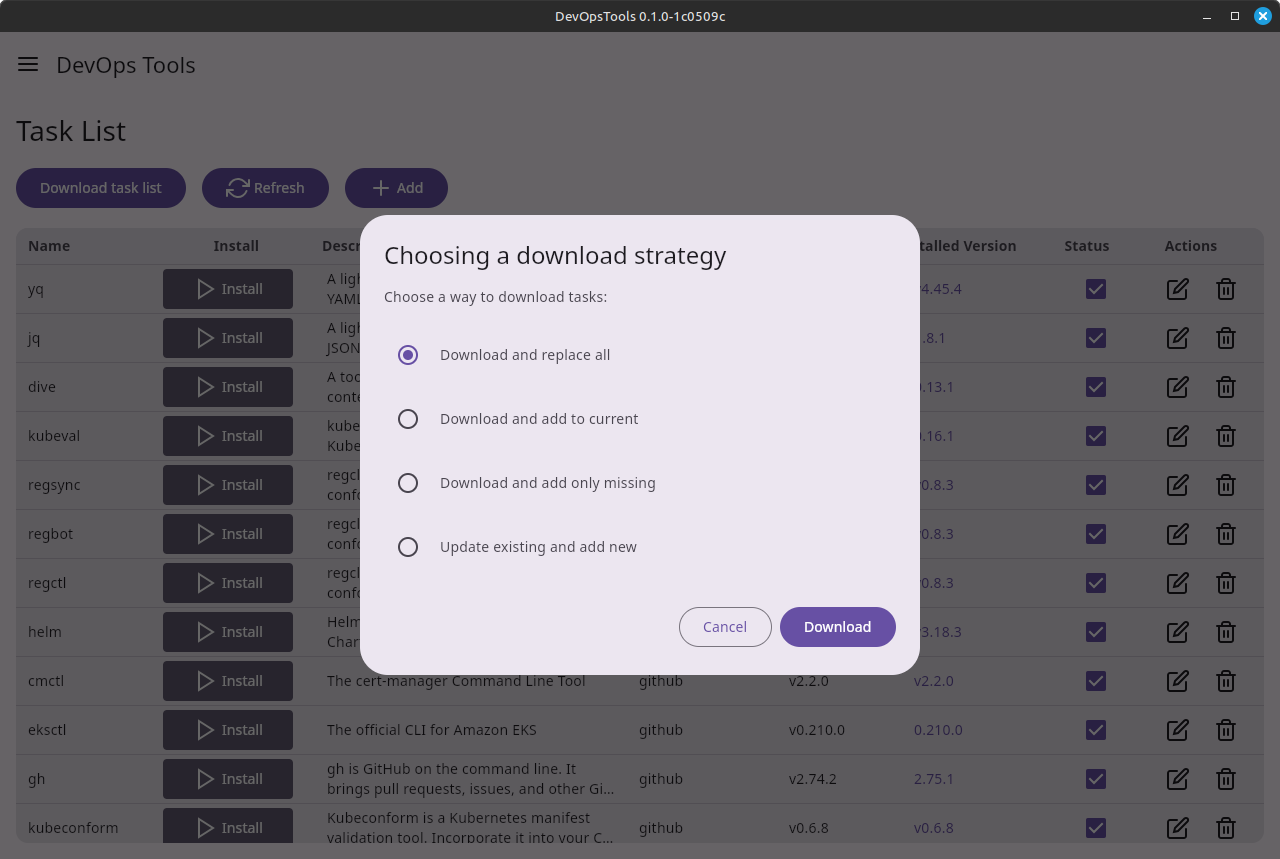
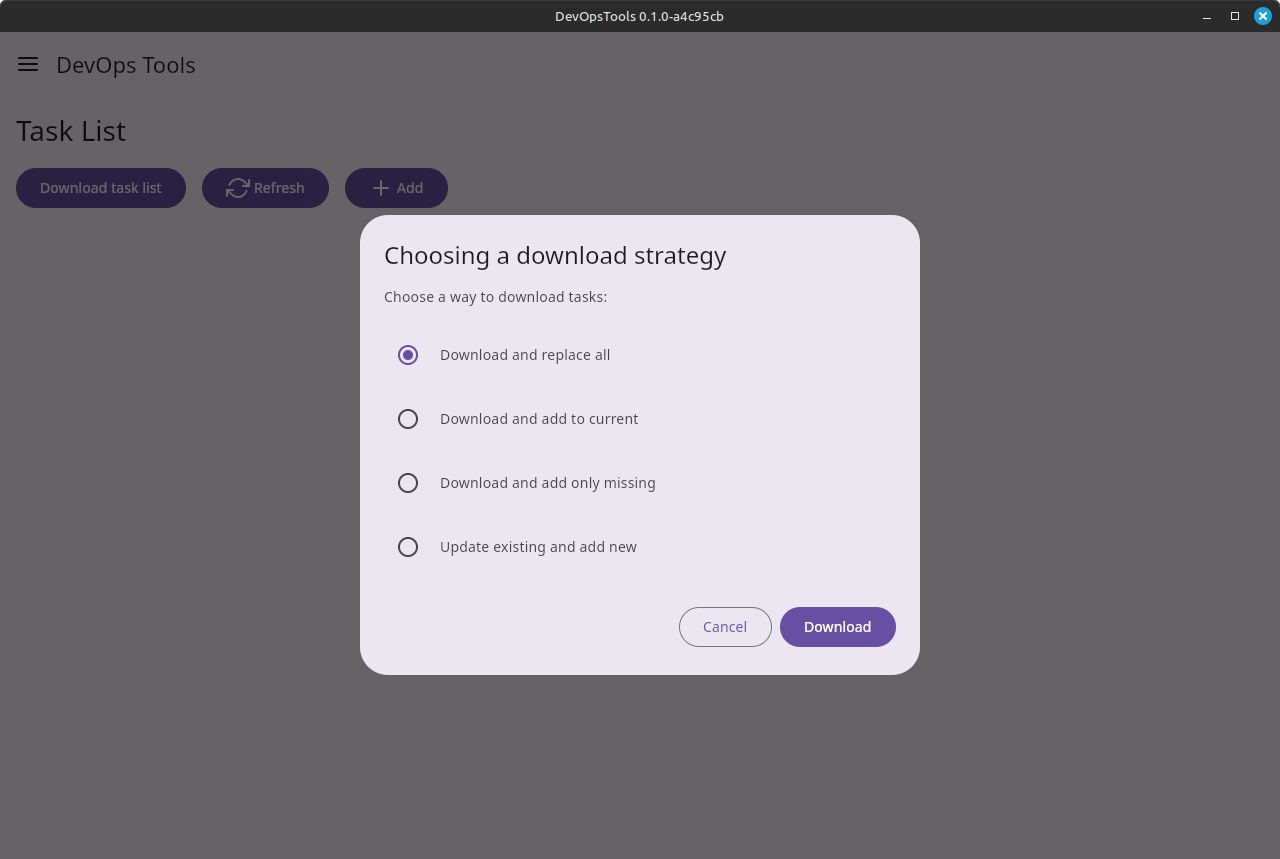
edt readme

diff --git a/composeApp/src/desktopMain/kotlin/ua/in/ios/devopstools/TasksView.kt b/composeApp/src/desktopMain/kotlin/ua/in/ios/devopstools/TasksView.kt
@@ -1852,7 +1852,7 @@ fun TasksTable() {
                 modifier = Modifier.fillMaxWidth().height(200.dp),
                 contentAlignment = Alignment.Center
             ) {
-                Text("Tasks are missing or loaded...")
+                Text("Tasks list are missing, pls download it")
             }
         } else {
             Card(

diff --git a/README.md b/README.md
@@ -1,5 +1,8 @@
 # ![devopstools.png](devopstools.png) DevOps Tools GUI Installer
 
+## First run
+![window-first-run.png](screenshots/window-first-run.png)
+
 ## Download tasklist
 ![window-download-tasks.png](screenshots/window-download-tasks.png)
 
